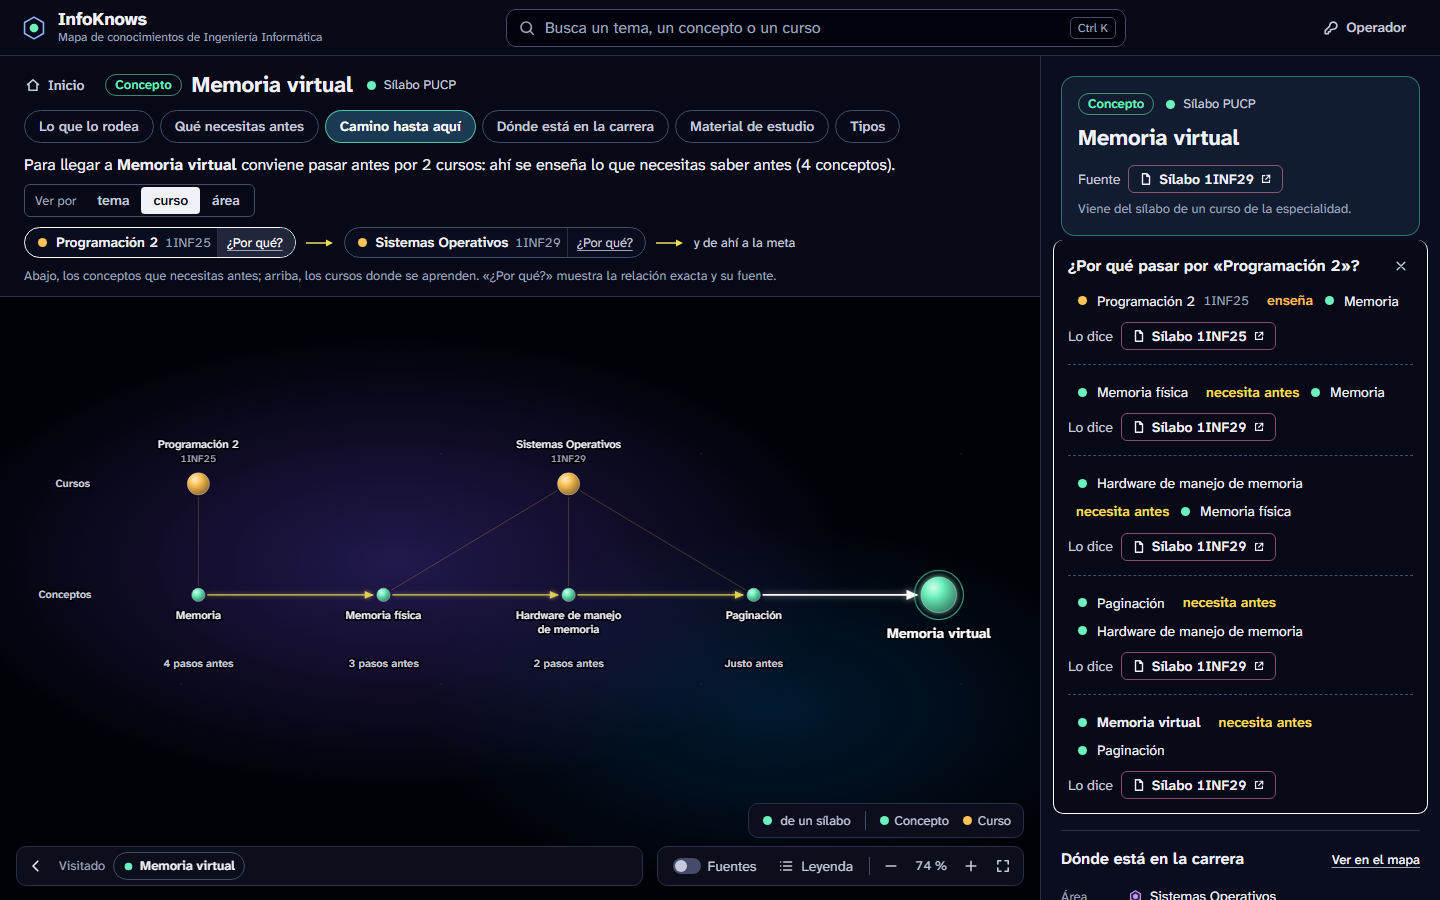
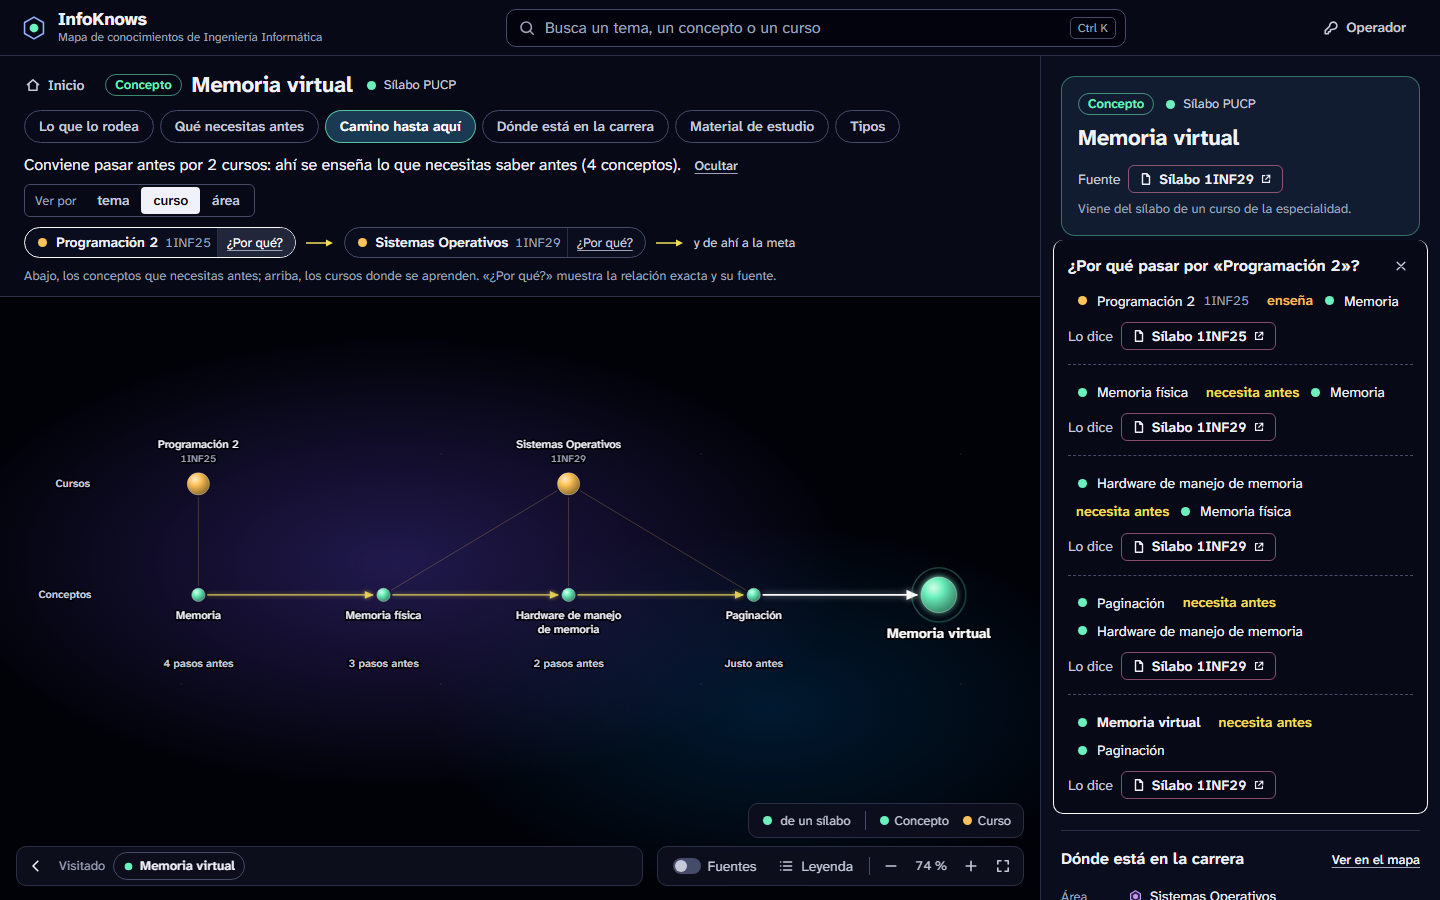
docs: rerun the R6 walkthrough after folding the reading note
Captures A to F and the CA-01 to CA-10 table come from a new run, 66 of
66, against the local deployment rebuilt on Neo4j Community from
var/despliegue-local. CLAUDE.md records that the local stack is now
Community and that .env pins the image and the store.

Changed region(s): [[0.0, 0.1556, 0.625, 0.2178], [0.625, 0.6222, 0.6562, 0.6533]]

diff --git a/docs/r6/README.md b/docs/r6/README.md
@@ -1,6 +1,6 @@
 # R6 · InfoKnows: capturas y recorrido técnico
 
-**Fecha:** 2026-11-17 · **Grafo:** corrida final de R4 (CS2023 y los 13 sílabos; hoja de datos 2 del
+**Fecha:** 2026-11-17, repetido el 2026-11-21 (sección 2) · **Grafo:** corrida final de R4 (CS2023 y los 13 sílabos; hoja de datos 2 del
 plan) · **Navegador:** Chromium sin interfaz, con Playwright 1.65.1, a 1440 × 900. Las capturas O1 a
 O6 son de un grafo de ensayo con las trece corridas de la cadena final (sección 4).
 
@@ -51,7 +51,16 @@ hoja de datos 2, y donde el plan pide un dato lo compara con lo que responde la 
 Se corrió contra el despliegue con Docker Compose, detrás de nginx: **66 de 66 comprobaciones
 cumplen**. Tras corregir dos solapamientos de nombres en el mapa, se repitió con el compilado de
 producción servido por `vite preview` contra la API de ese mismo despliegue, con el mismo resultado,
-y las capturas de la sección 1 son de esa corrida.
+y las capturas de la sección 1 eran de esa corrida.
+
+**Repetido el 2026-11-21**, tras plegar la frase de «cómo leer el dibujo» y acortar las respuestas
+de la cabecera que repetían el nombre del foco. Esa frase se ve abierta la primera vez que aparece
+cada vista en la pestaña y después queda tras «Cómo leerlo» (`web/README.md`, «Cómo se usa»). Se
+corrió contra el despliegue local con Docker Compose, con Neo4j Community y el grafo reconstruido
+con `load` y `reapply` desde `var/despliegue-local/`: **66 de 66 comprobaciones cumplen**. La tabla
+y las capturas A a F de la sección 1 son de esta corrida; en cada captura, la frase sale abierta o
+plegada según fuera o no la primera visita a esa vista. Las O1 a O6 no cambian: el panel del
+operador no usa la cabecera. La corrida del 17-11 queda en el historial de git.
 
 El paso 4 de CA-10 no está en el plan: comprueba el interruptor «Fuentes» del flujo de CU-10.
 
@@ -60,8 +69,8 @@ El paso 4 de CA-10 no está en el plan: comprueba el interruptor «Fuentes» del
 | CA-01 | 1 | El inicio muestra las 17 áreas y los cursos con sílabo; las áreas con temas se distinguen, con sus cifras | cumple | cumple | 17 áreas, 13 cursos, 10 áreas con temas; 2 temas · 17 conceptos |
 | CA-01 | 2 | La búsqueda lista hasta 20 coincidencias, cada una con su clase y su origen en texto | cumple | cumple | 11 resultados para «memoria»: Memoria virtual (Concepto, Sílabo PUCP); Hardware de manejo de memoria (Concepto, Sílabo PUCP); ADMINISTRACIÓN DE MEMORIA (Tema, Sílabo PUCP); Archivos mapeados a memoria (Concepto, Sílabo PUCP); Memoria (Concepto, Sílabo PUCP); Memoria dinámica (Concepto, Sílabo PUCP); Memoria física (Con |
 | CA-01 | 3 | Elegir el tema lo pone en foco, en el mapa y en la ficha | cumple | cumple | Tema ADMINISTRACIÓN DE MEMORIA, de un sílabo. En foco |
-| CA-01 | 4 | Un texto sin coincidencias: el sistema lo dice y ofrece ver las áreas | cumple | cumple | Ningún sílabo cargado trata «compiladores»  Tampoco hay un área o una unidad de CS2023 con ese nombre. Prueba con otra palabra o recorre las áreas.  Ver las áreas PRESENTACIÓN DEL CURSO Y CONCEPTOS BÁSICOS HTML Clases Plan de riesgo |
-| CA-02 | 1 | Vecinos directos con el nombre de cada relación, y algunos vecinos de esos vecinos, apagados; cada vecino del mapa está en «Conexiones» | cumple | cumple | Aquí ves con qué se relaciona ADMINISTRACIÓN DE MEMORIA: 9 elementos conectados directamente, agrupados por tipo de relación. Rótulos: Es parte de, Material de estudio, Contiene · 7. Apagados: 9. Fuera de «Conexiones»: ninguno |
+| CA-01 | 4 | Un texto sin coincidencias: el sistema lo dice y ofrece ver las áreas | cumple | cumple | Ningún sílabo cargado trata «compiladores»  Tampoco hay un área o una unidad de CS2023 con ese nombre. Prueba con otra palabra o recorre las áreas.  Ver las áreas Ejecución del Proyecto Requerimientos de calidad VERIFICACIÓN, VALIDACIÓN Y PRUEBAS DE SOFTWARE Modificación de tablas |
+| CA-02 | 1 | Vecinos directos con el nombre de cada relación, y algunos vecinos de esos vecinos, apagados; cada vecino del mapa está en «Conexiones» | cumple | cumple | ADMINISTRACIÓN DE MEMORIA: 9 elementos conectados directamente, agrupados por tipo de relación. Rótulos: Es parte de, Material de estudio, Contiene · 7. Apagados: 9. Fuera de «Conexiones»: ninguno |
 | CA-02 | 2 | Pasar a uno de sus conceptos lo pone en foco y lo visitado suma un paso | cumple | cumple | Visitado: ADMINISTRACIÓN DE MEMORIA › Memoria virtual |
 | CA-02 | 3 | Volver al tema lo pone otra vez en foco, con sus vecinos | cumple | cumple | ADMINISTRACIÓN DE MEMORIA |
 | CA-02 | 4 | El + de un vecino agrega sus conexiones al mapa, con nombre, y el foco no cambia | cumple | cumple | + en «Sílabo 1INF29»: de 19 a 20 puntos; Conexiones de «Sílabo 1INF29» · 7 |
@@ -71,9 +80,9 @@ El paso 4 de CA-10 no está en el plan: comprueba el interruptor «Fuentes» del
 | CA-04 | 1 | Lo que el curso pide y lo que enseña, con su nombre en la ficha | cumple | cumple | Pide: Memoria, Programación. Enseña: 63, todos con nombre en la ficha |
 | CA-04 | 2 | Los cursos que conviene llevar antes, cada uno con los conceptos que lo justifican y la fuente de cada uno | cumple | cumple | Algoritmia y Estructura de Datos 1INF27 porque enseña lo que este curso pide Programación fuente · Programación 2 1INF25 porque enseña lo que este curso pide Memoria fuente · tarjeta: Relación seleccionada Algoritmia y Estructura de Datos 1INF27 enseña Programación Lo dice Sílabo 1INF27 (abre el documento en una pestañ |
 | CA-05 | 1 | La cadena área › unidad › tema, y cada eslabón con su capa | cumple | cumple | Memoria virtual está en Sistemas Operativos › Gestión de Memoria › ADMINISTRACIÓN DE MEMORIA. Mapa: Concepto Memoria virtual, de un sílabo / Área Sistemas Operativos, de CS2023 / Unidad Gestión de Memoria, de CS2023 / Tema ADMINISTRACIÓN DE MEMORIA, de un sílabo |
-| CA-06 | 1 | Los conceptos del tema | cumple | cumple | ADMINISTRACIÓN DE MEMORIA tiene 7 conceptos, y conviene aprenderlos en 6 pasos. |
+| CA-06 | 1 | Los conceptos del tema | cumple | cumple | ADMINISTRACIÓN DE MEMORIA: 7 conceptos, que conviene aprender en 6 pasos. |
 | CA-06 | 2 | Los conceptos en pasos según sus prerrequisitos internos; ninguno antes que uno de sus prerrequisitos | cumple | cumple | Paso 1: Caching, Memoria física · Paso 2: Hardware de manejo de memoria · Paso 3: Paginación · Paso 4: Memoria virtual · Paso 5: Conjuntos de trabajo (working sets ) · Paso 6: Hiperpaginación (thrashing ) |
-| CA-06 | 3 | El área, nivel por nivel, con sus cifras; si no cabe, el mapa llega hasta los temas y lo dice | cumple | cumple | Sistemas Operativos contiene 14 unidades, 6 temas y 63 conceptos. Con más de 24 conceptos, el mapa llega hasta los temas para que se pueda leer. Entra a un tema para ver sus conceptos y en qué orden aprenderlos. Las unidades sin temas están en «Conexiones», en la ficha. |
+| CA-06 | 3 | El área, nivel por nivel, con sus cifras; si no cabe, el mapa llega hasta los temas y lo dice | cumple | cumple | Sistemas Operativos: Contiene 14 unidades, 6 temas y 63 conceptos. Con más de 24 conceptos, el mapa llega hasta los temas para que se pueda leer. Entra a un tema para ver sus conceptos y en qué orden aprenderlos. Las unidades sin temas están en «Conexiones», en la ficha. |
 | CA-07 | 1 | El material del tema, con su tipo | cumple | cumple | Material de estudio Ver en el mapa Abrir Sílabo 1INF29 (abre el documento en una pestaña nueva) Sílabo |
 | CA-07 | 2 | El PDF del sílabo abre en una pestaña nueva, y es el del curso indicado | cumple | cumple | /resources/0473349f-1344-4e98-b6a7-75c36ca223a9 → 200 application/pdf; pestaña nueva: sí |
 | CA-07 | 3 | Un concepto no tiene material propio: se ofrece el de su tema | cumple | cumple | Material de estudio Ver en el mapa Un concepto no tiene material propio: los sílabos describen temas. Ver el material de su tema, «ADMINISTRACIÓN DE MEMORIA» |
@@ -81,7 +90,7 @@ El paso 4 de CA-10 no está en el plan: comprueba el interruptor «Fuentes» del
 | CA-08 | 1 | Por cursos: los cursos por los que conviene pasar, por distancia, y los conceptos que se necesitan antes | cumple | cumple | Paradas: Programación 2 1INF25 · Sistemas Operativos 1INF29 (2 distancias). Abajo: Hardware de manejo de memoria, Memoria, Memoria física, Paginación |
 | CA-08 | 2 | Por temas y por áreas; una parada que contiene a la meta lo dice; los conceptos no cambian | cumple | cumple | Temas: ARREGLOS Y PUNTEROS · ADMINISTRACIÓN DE MEMORIA el mismo tema. Áreas: Fundamentos de los Lenguajes de Programación · Sistemas Operativos la misma área. Conceptos en las tres: Hardware de manejo de memoria, Memoria, Memoria física, Paginación |
 | CA-08 | 3 | Por qué pasar por un curso: las relaciones que lo justifican, cada una con su fuente | cumple | cumple | Programación 2 1INF25 enseña Memoria Lo dice Sílabo 1INF25 (abre el documento en una pestaña nueva) · Memoria física necesita antes Memoria Lo dice Sílabo 1INF29 (abre el documento en una pestaña nueva) · Hardware de manejo de memoria necesita antes Memoria física Lo dice Sílabo 1INF29 (abre el documento en una pestaña |
-| CA-08 | 4 | Con un curso como meta: el camino, o el aviso de que sale vacío, y la remisión a «Cursos que conviene llevar antes» | cumple | cumple | Para llegar a Sistemas Operativos conviene pasar antes por 3 cursos: ahí se enseña lo que necesitas saber antes (3 conceptos). Sale de lo que necesitan antes los conceptos que el curso enseña; lo que el curso pide de entrada es otra pregunta. Ver «Cursos que conviene llevar antes» |
+| CA-08 | 4 | Con un curso como meta: el camino, o el aviso de que sale vacío, y la remisión a «Cursos que conviene llevar antes» | cumple | cumple | Sistemas Operativos: Conviene pasar antes por 3 cursos: ahí se enseña lo que necesitas saber antes (3 conceptos). Sale de lo que necesitan antes los conceptos que el curso enseña; lo que el curso pide de entrada es otra pregunta. Ver «Cursos que conviene llevar antes» |
 | CA-09 | 1 | Buscar el concepto general y abrirlo lo pone en foco | cumple | cumple | Llamadas al sistema |
 | CA-09 | 2 | Sus tipos | cumple | cumple | Llamadas al sistema tiene 3 tipos. Mapa: Llamadas al sistema para manejo de archivos, Llamadas al sistema para manejo de directorios, Llamadas al sistema para manejo de procesos |
 | CA-09 | 3 | Pasar a uno de sus tipos: es un tipo del concepto general | cumple | cumple | Llamadas al sistema para manejo de archivos es un tipo de Llamadas al sistema. |

diff --git a/CLAUDE.md b/CLAUDE.md
@@ -172,9 +172,14 @@ es **InfoKnows**: va en la interfaz y en los README. «Constelación» es el
 nombre de la propuesta en los documentos de R5, que no se renombran; InfoKnows
 no va en los ADR ni en el modelo C4.
 
-Del despliegue: Neo4j es Community (un volumen creado con Enterprise no abre
-con Community; `NEO4J_IMAGE` en `.env` conserva Enterprise), la web publica el
-80 (`IEKG_WEB_PORT`) y los puertos de Neo4j se publican solo en el loopback.
+Del despliegue: Neo4j es Community, también en local desde el 2026-11-21 (un
+volumen creado con Enterprise queda en formato `block` y no abre con
+Community), la web publica el 80 (`IEKG_WEB_PORT`) y los puertos de Neo4j se
+publican solo en el loopback. El `.env` local fija `NEO4J_IMAGE` y
+`IEKG_DATA_DIR=./var/despliegue-local`, para que el compose levante siempre lo
+mismo; `var/medicion-r4/` no se monta: es la evidencia de R4. Una variable con
+el mismo nombre en la terminal manda sobre el `.env`: `docker compose config`
+dice qué se va a levantar.
 
 ## 7. Comandos
 
